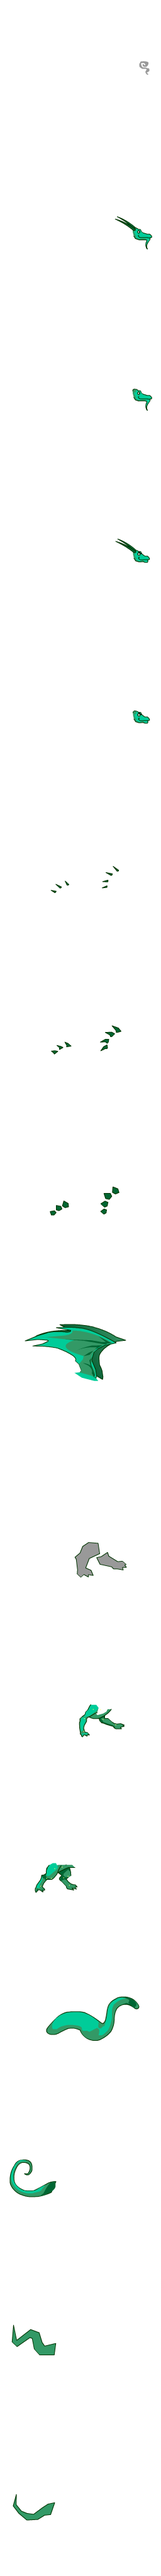
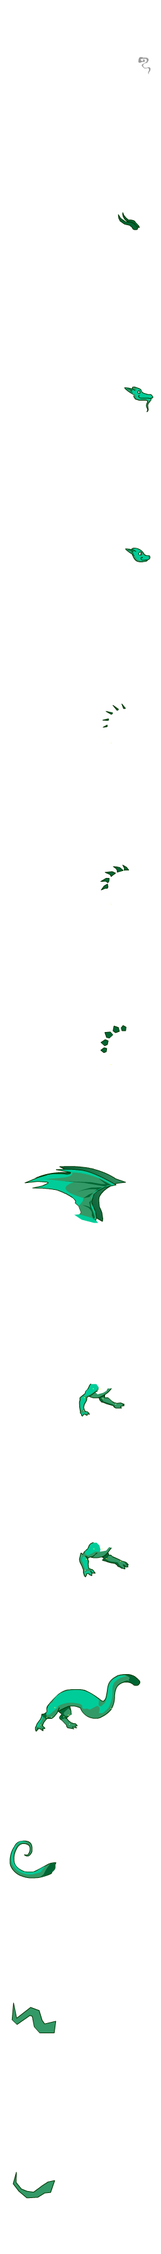
Update drake sprites; add gray drake

diff --git a/app/static/css/drake.css b/app/static/css/drake.css
@@ -31,64 +31,56 @@
 	top: 0px;
 }
 
-.drake-m-horns {
+.drake-horns {
 	top: -100%;
 }
 
-.drake-m-nohorns {
+.drake-male {
 	top: -200%;
 }
 
-.drake-f-horns {
+.drake-female {
 	top: -300%;
 }
 
-.drake-f-nohorns {
+.drake-thin-spikes {
 	top: -400%;
 }
 
-.drake-thin-spikes {
+.drake-medium-spikes {
 	top: -500%;
 }
 
-.drake-medium-spikes {
-	top: -600%;
-}
-
 .drake-wide-spikes {
-	top: -700%
+	top: -600%
 }
 
 .drake-wings {
-	top: -800%
+	top: -700%
 }
 
 .drake-long-forelimbs {
-	top: -900%
+	top: -800%
 }
 
 .drake-short-forelimbs {
-	top: -1000%
-}
-
-.drake-legs {
-	top: -1100%
+	top: -900%
 }
 
 .drake-body {
-	top: -1200%
+	top: -1000%
 }
 
 .drake-long-tail {
-	top: -1300%
+	top: -1100%
 }
 
 .drake-kinked-tail {
-	top: -1400%
+	top: -1200%
 }
 
 .drake-short-tail {
-	top: -1500%
+	top: -1300%
 }
 
 .flip {
